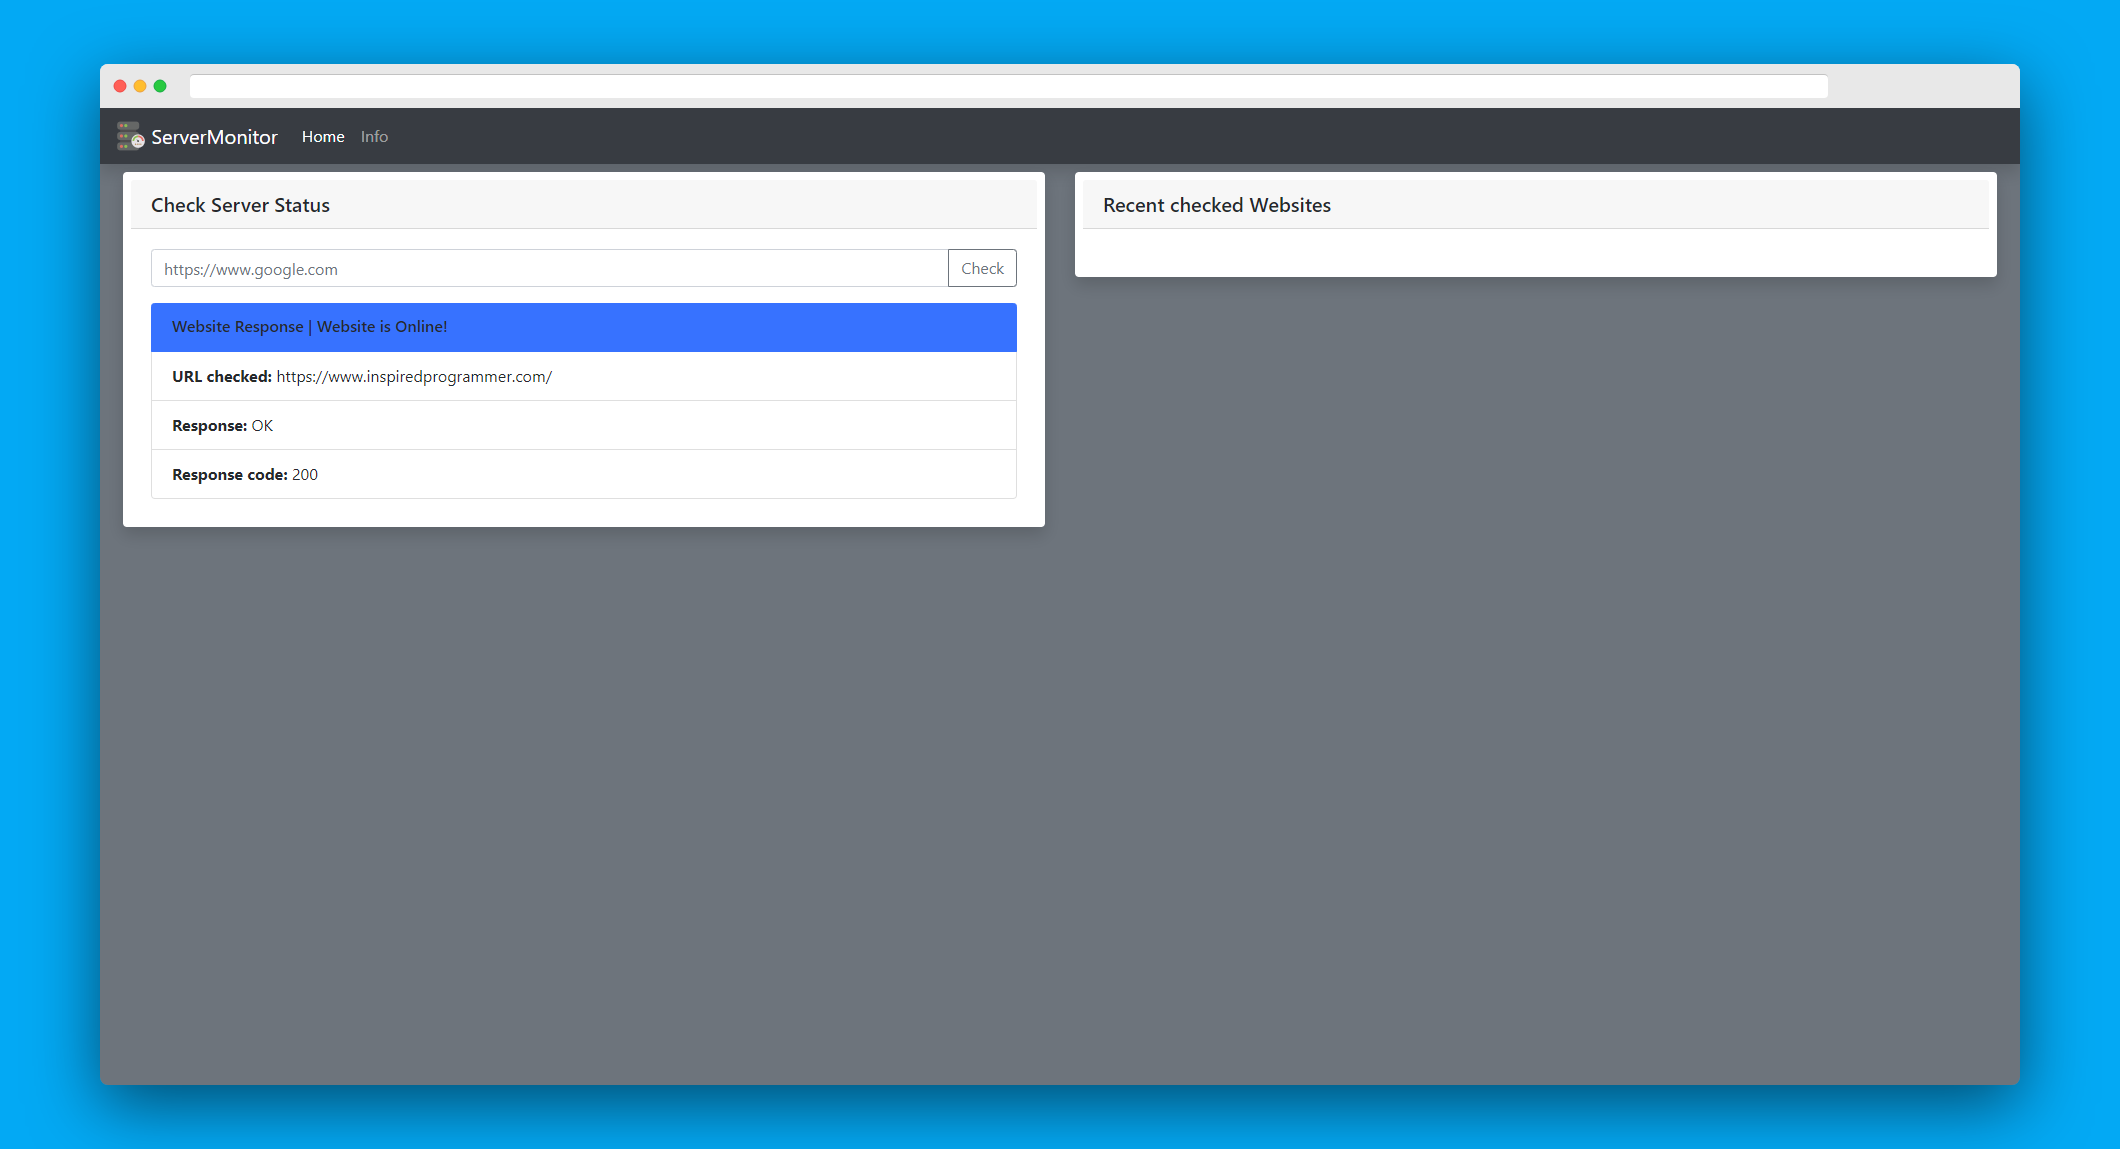
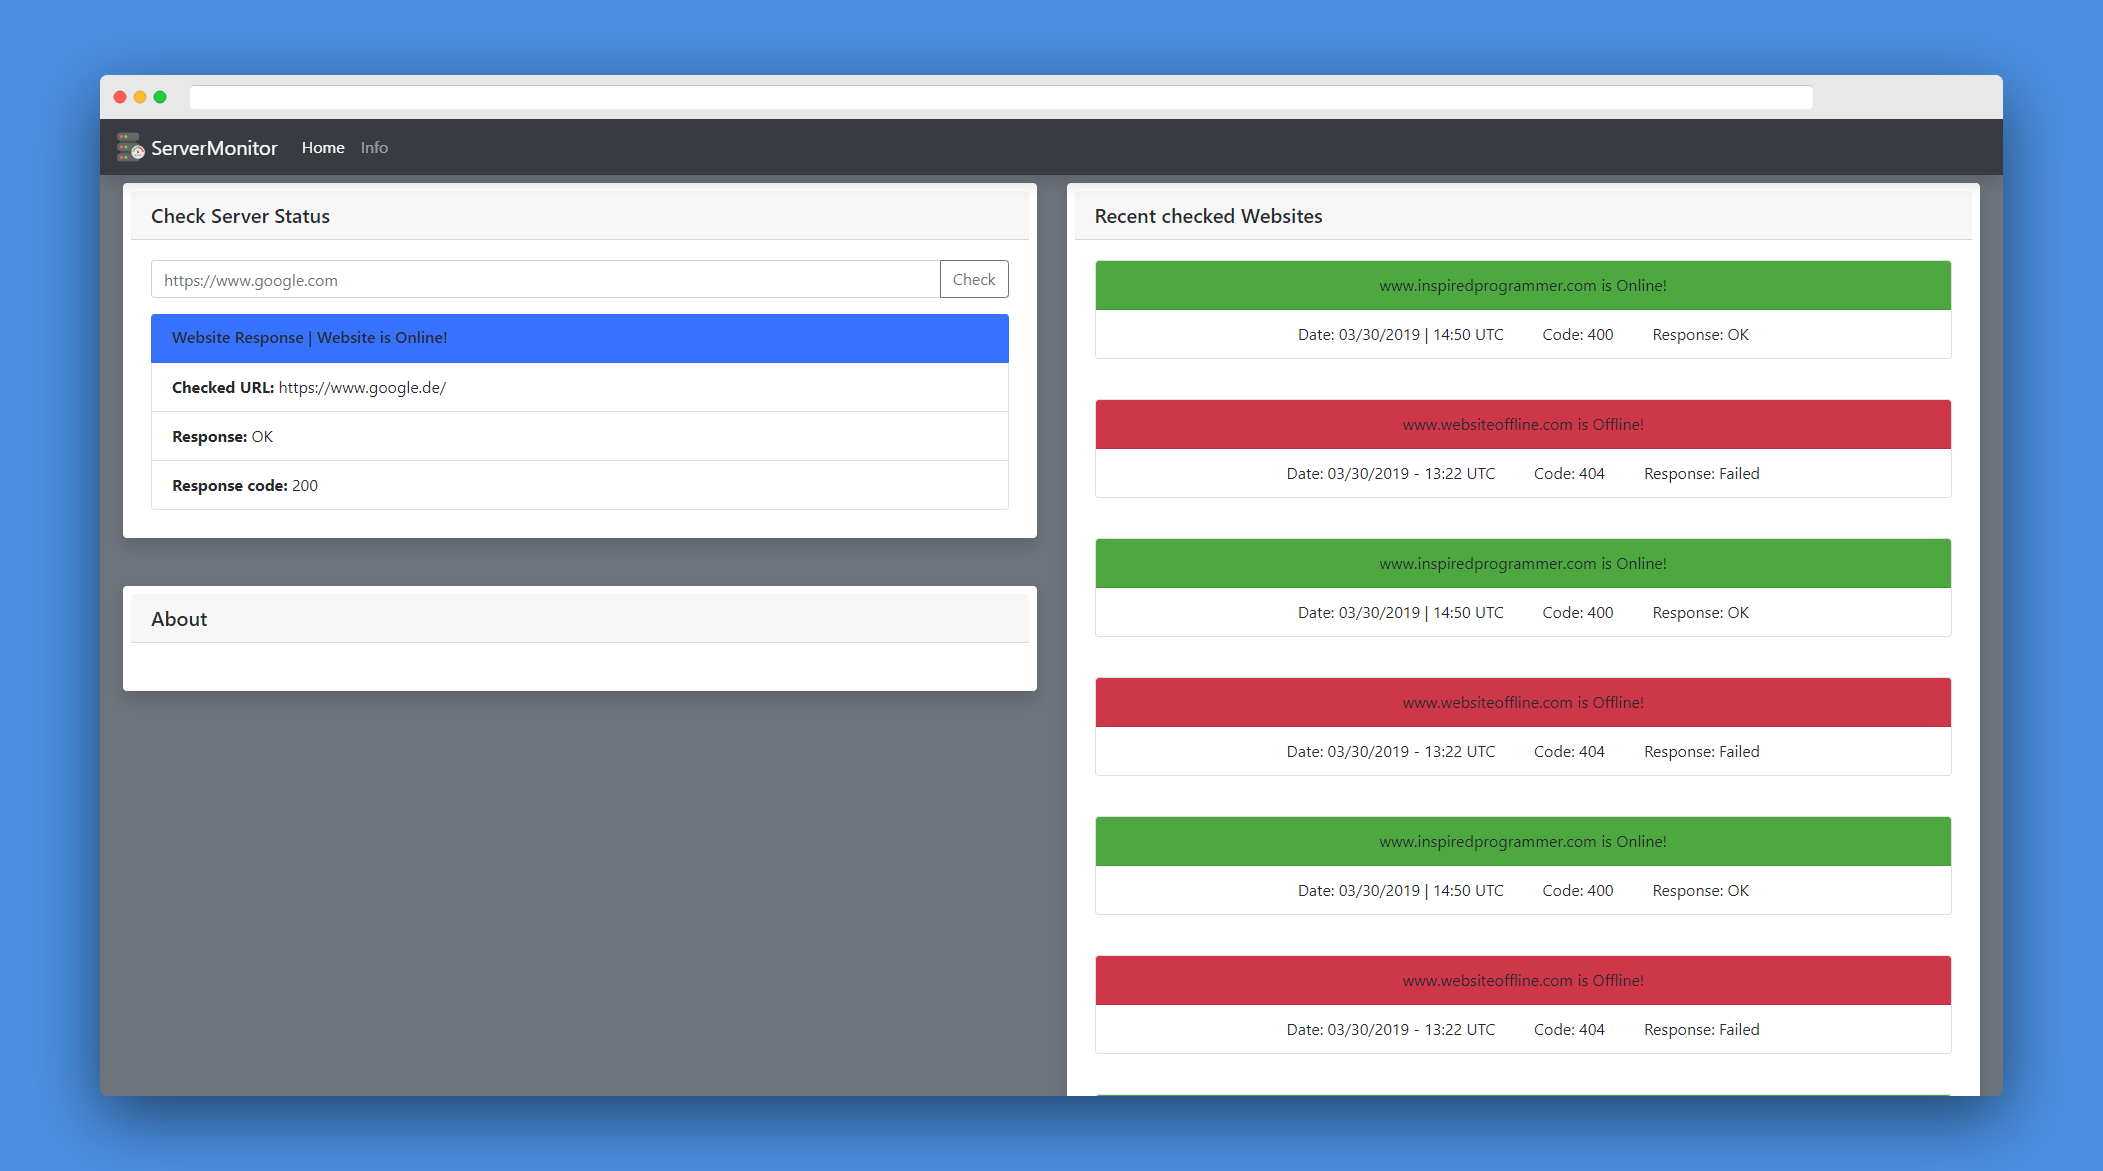
Procfile

diff --git a/monitor/templates/index.html b/monitor/templates/index.html
@@ -20,11 +20,16 @@
           <h6 class="mb-1">Website Response | {{ response[3] }}</h6>
         </div>
       </a>  
-      <li class="list-group-item"><a class="font-weight-bold">URL checked:</a> {{ response[0] }}</li>
+      <li class="list-group-item"><a class="font-weight-bold">Checked URL:</a> {{ response[0] }}</li>
       <li class="list-group-item"><a class="font-weight-bold">Response:</a> {{ response[2] }}</li>
       <li class="list-group-item"><a class="font-weight-bold">Response code:</a> {{ response[1] }}</li>
     </ul>
   </div>
+</div>
+<div class="container shadow p-2 mb-5 bg-white rounded">
+    <h5 class="card-header">About</h5>
+    <div class="card-body">
+    </div>
 </div>
 {% endblock %}
 
@@ -32,6 +37,148 @@
 <div class="container shadow p-2 mb-5 bg-white rounded">
     <h5 class="card-header">Recent checked Websites</h5>
     <div class="card-body">
+        <div class="card" style="width: auto;">
+            <div class="card-header bg-success text-center">
+              {{ test }} is Online!
+            </div>
+            <ul class="list-group list-group-horizontal-xl flex-fill mx-auto border-0">
+                <li class="list-group-item border-0">Date: 03/30/2019 | 14:50 UTC</li>
+                <li class="list-group-item border-0">Code: 400</li>
+                <li class="list-group-item border-0"></li>
+            </ul>
+        </div>
+    </div>
+    <div class="card-body">
+        <div class="card" style="width: auto;">
+            <div class="card-header bg-danger text-center">
+              www.websiteoffline.com is Offline!
+            </div>
+            <ul class="list-group list-group-horizontal-xl flex-fill mx-auto">
+                <li class="list-group-item border-0">Date: 03/30/2019 - 13:22 UTC</li>
+                <li class="list-group-item border-0">Code: 404</li>
+                <li class="list-group-item border-0">Response: Failed</li>
+            </ul>
+        </div>
+    </div>
+    <div class="card-body">
+        <div class="card" style="width: auto;">
+            <div class="card-header bg-success text-center">
+              www.inspiredprogrammer.com is Online!
+            </div>
+            <ul class="list-group list-group-horizontal-xl flex-fill mx-auto border-0">
+                <li class="list-group-item border-0">Date: 03/30/2019 | 14:50 UTC</li>
+                <li class="list-group-item border-0">Code: 400</li>
+                <li class="list-group-item border-0">Response: OK</li>
+            </ul>
+        </div>
+    </div>
+    <div class="card-body">
+        <div class="card" style="width: auto;">
+            <div class="card-header bg-danger text-center">
+              www.websiteoffline.com is Offline!
+            </div>
+            <ul class="list-group list-group-horizontal-xl flex-fill mx-auto">
+                <li class="list-group-item border-0">Date: 03/30/2019 - 13:22 UTC</li>
+                <li class="list-group-item border-0">Code: 404</li>
+                <li class="list-group-item border-0">Response: Failed</li>
+            </ul>
+        </div>
+    </div>
+    <div class="card-body">
+        <div class="card" style="width: auto;">
+            <div class="card-header bg-success text-center">
+              www.inspiredprogrammer.com is Online!
+            </div>
+            <ul class="list-group list-group-horizontal-xl flex-fill mx-auto border-0">
+                <li class="list-group-item border-0">Date: 03/30/2019 | 14:50 UTC</li>
+                <li class="list-group-item border-0">Code: 400</li>
+                <li class="list-group-item border-0">Response: OK</li>
+            </ul>
+        </div>
+    </div>
+    <div class="card-body">
+        <div class="card" style="width: auto;">
+            <div class="card-header bg-danger text-center">
+              www.websiteoffline.com is Offline!
+            </div>
+            <ul class="list-group list-group-horizontal-xl flex-fill mx-auto">
+                <li class="list-group-item border-0">Date: 03/30/2019 - 13:22 UTC</li>
+                <li class="list-group-item border-0">Code: 404</li>
+                <li class="list-group-item border-0">Response: Failed</li>
+            </ul>
+        </div>
+    </div>
+    <div class="card-body">
+        <div class="card" style="width: auto;">
+            <div class="card-header bg-success text-center">
+              www.inspiredprogrammer.com is Online!
+            </div>
+            <ul class="list-group list-group-horizontal-xl flex-fill mx-auto border-0">
+                <li class="list-group-item border-0">Date: 03/30/2019 | 14:50 UTC</li>
+                <li class="list-group-item border-0">Code: 400</li>
+                <li class="list-group-item border-0">Response: OK</li>
+            </ul>
+        </div>
+    </div>
+    <div class="card-body">
+        <div class="card" style="width: auto;">
+            <div class="card-header bg-danger text-center">
+              www.websiteoffline.com is Offline!
+            </div>
+            <ul class="list-group list-group-horizontal-xl flex-fill mx-auto">
+                <li class="list-group-item border-0">Date: 03/30/2019 - 13:22 UTC</li>
+                <li class="list-group-item border-0">Code: 404</li>
+                <li class="list-group-item border-0">Response: Failed</li>
+            </ul>
+        </div>
+    </div>
+    <div class="card-body">
+        <div class="card" style="width: auto;">
+            <div class="card-header bg-success text-center">
+              www.inspiredprogrammer.com is Online!
+            </div>
+            <ul class="list-group list-group-horizontal-xl flex-fill mx-auto border-0">
+                <li class="list-group-item border-0">Date: 03/30/2019 | 14:50 UTC</li>
+                <li class="list-group-item border-0">Code: 400</li>
+                <li class="list-group-item border-0">Response: OK</li>
+            </ul>
+        </div>
+    </div>
+    <div class="card-body">
+        <div class="card" style="width: auto;">
+            <div class="card-header bg-danger text-center">
+              www.websiteoffline.com is Offline!
+            </div>
+            <ul class="list-group list-group-horizontal-xl flex-fill mx-auto">
+                <li class="list-group-item border-0">Date: 03/30/2019 - 13:22 UTC</li>
+                <li class="list-group-item border-0">Code: 404</li>
+                <li class="list-group-item border-0">Response: Failed</li>
+            </ul>
+        </div>
+    </div>
+    <div class="card-body">
+        <div class="card" style="width: auto;">
+            <div class="card-header bg-success text-center">
+              www.inspiredprogrammer.com is Online!
+            </div>
+            <ul class="list-group list-group-horizontal-xl flex-fill mx-auto border-0">
+                <li class="list-group-item border-0">Date: 03/30/2019 | 14:50 UTC</li>
+                <li class="list-group-item border-0">Code: 400</li>
+                <li class="list-group-item border-0">Response: OK</li>
+            </ul>
+        </div>
+    </div>
+    <div class="card-body">
+        <div class="card" style="width: auto;">
+            <div class="card-header bg-danger text-center">
+              www.websiteoffline.com is Offline!
+            </div>
+            <ul class="list-group list-group-horizontal-xl flex-fill mx-auto">
+                <li class="list-group-item border-0">Date: 03/30/2019 - 13:22 UTC</li>
+                <li class="list-group-item border-0">Code: 404</li>
+                <li class="list-group-item border-0">Response: Failed</li>
+            </ul>
+        </div>
     </div>
 </div>
 {% endblock %}

diff --git a/monitor/templates/base.html b/monitor/templates/base.html
@@ -14,7 +14,7 @@
   </head>
 
   <body class="bg-secondary">
-    <nav class="navbar navbar-expand-lg navbar-dark bg-dark shadow">
+    <nav class="navbar fixed-top navbar-expand-lg navbar-dark bg-dark shadow">
       <a class="navbar-brand" href="#">
         <img src="/static/img/icon.svg" width="30" height="30" class="d-inline-block align-top" alt="">
         ServerMonitor
@@ -30,7 +30,7 @@
       </div>
     </nav>
     <div class="container-fluid">
-      <div class="row p-2">
+      <div class="row p-2" style="margin-top: 56px">
         <div class="col-sm">
           {% block content %}{% endblock %}
         </div>
@@ -39,10 +39,23 @@
         </div>
       </div>
     </div>
+    <!-- Footer -->
+<footer class="page-footer font-small bg-dark">
+
+  <!-- Copyright -->
+  <div class="footer-copyright text-center py-3">Made with ❤ in Germany | (c) 2019
+    <p>Powered by InspiredProgrammer.com</p>
+    <a href="https://mdbootstrap.com/education/bootstrap/"> monitor.inspiredprogrammer.com</a>
+  </div>
+  <!-- Copyright -->
+
+</footer>
+<!-- Footer -->
     <!-- Optional JavaScript -->
     <!-- jQuery first, then Popper.js, then Bootstrap JS -->
     <script src="https://code.jquery.com/jquery-3.3.1.slim.min.js" integrity="sha384-q8i/X+965DzO0rT7abK41JStQIAqVgRVzpbzo5smXKp4YfRvH+8abtTE1Pi6jizo" crossorigin="anonymous"></script>
     <script src="https://cdnjs.cloudflare.com/ajax/libs/popper.js/1.14.7/umd/popper.min.js" integrity="sha384-UO2eT0CpHqdSJQ6hJty5KVphtPhzWj9WO1clHTMGa3JDZwrnQq4sF86dIHNDz0W1" crossorigin="anonymous"></script>
     <script src="https://stackpath.bootstrapcdn.com/bootstrap/4.3.1/js/bootstrap.min.js" integrity="sha384-JjSmVgyd0p3pXB1rRibZUAYoIIy6OrQ6VrjIEaFf/nJGzIxFDsf4x0xIM+B07jRM" crossorigin="anonymous"></script>
   </body>
+  
 </html>

diff --git a/monitor/models.py b/monitor/models.py
@@ -1,11 +1,14 @@
 from monitor import db
 
-#TODO: Create Models for recent checked websites view
 
-class User(db.Model):
+class CheckedWebsite(db.Model):
     id = db.Column(db.Integer, primary_key=True)
-    username = db.Column(db.String(80), unique=True, nullable=False)
-    email = db.Column(db.String(120), unique=True, nullable=False)
+    #check_date = db.Column(db.DateTime)
+    website_url = db.Column(db.String(80), unique=False, nullable=True)
+    response_code = db.Column(db.String(10), unique=False, nullable=True)
+    response_message = db.Column(db.String(10), unique=False, nullable=True)
+    #isOnline = db.Column(db.Boolean)
 
     def __repr__(self):
-        return '<User %r>' % self.username
+        return self.website_url
+

diff --git a/monitor/views.py b/monitor/views.py
@@ -1,6 +1,7 @@
 from flask import render_template, request
 from monitor import app
 from monitor.monitoring import monitor_website
+from monitor.models import CheckedWebsite
 
 
 
@@ -10,7 +11,8 @@ def index():
         if request.form['url'] != '':
             url = request.form['url']
             response = monitor_website(url)
-            return render_template('index.html', title="Home", response=response)
+            test = CheckedWebsite.query.first()
+            return render_template('index.html', title="Home", response=response, test=test)
         else:
             return render_template('index.html', title="Home", response=["ERROR", "ERROR", "ERROR"])
     else:
